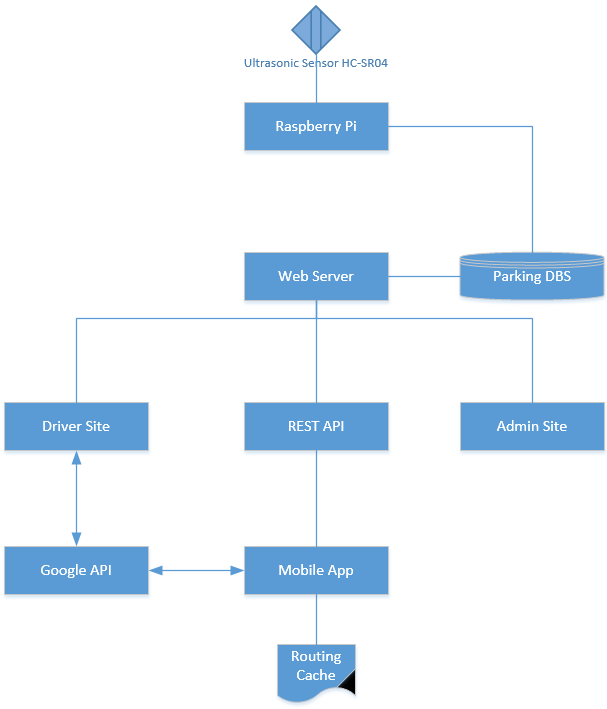
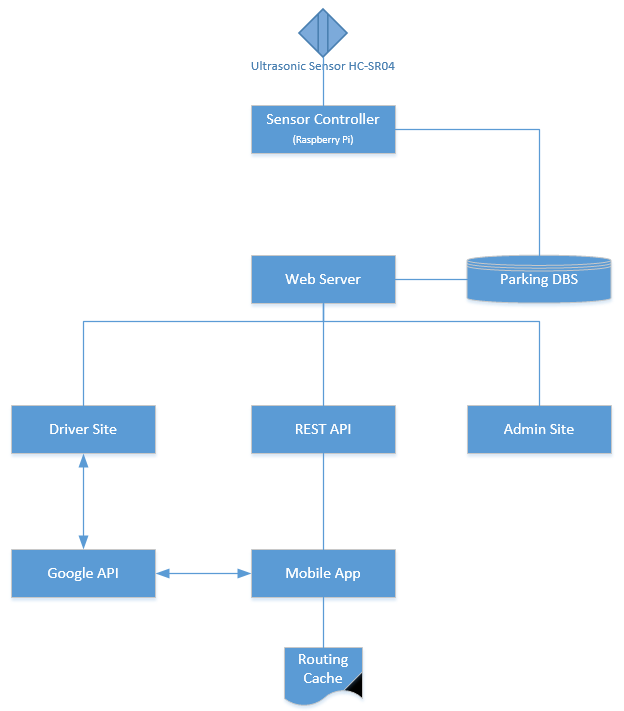
System Architecture overview

diff --git a/parking-report2.md b/parking-report2.md
@@ -162,17 +162,23 @@ The Web DriverPark classes are used by a driver to accomplish the following task
 
 ### <a name = "Architectural_Styles"></a>Architectural Styles  ###
 
+The ParkMe solution is built upon a client/server architecture and consists of three-tiers. Clients include the following: Web-based Administration and Driver sites; Android mobile app; Sensor Controllers.
+
 **Client/Server**
-1. Centralized database
-2. URL based REST API
+
+1. Cloud database
+2. Web Server: URL based REST API
+3. Web-based Administration and Driver sites; Android-based mobile Driver app
+
+The image below provides a high level overview of the system architecture:
+
+<img src="./diagrams/SystemHighLevelOverview.png"/>
+
 
 ### <a name = "Identifying_Subsystems"></a>Identifying Subsystems ###
 
 Everything will start on the sensor checking if a spot is available, then it will send the information to the database. The database comprises a subsystem that includes the components of parkings lots, spaces, and destination. The server then will communicate through the mobile app, which includes it's subsystem on services such as get lots, spaces, and destination.
 
-The image below provides a high level overview of the system components:
-
-<img src="./diagrams/SystemHighLevelOverview.png"/>
 
 The image below identifies the subsystems:
 
@@ -195,7 +201,7 @@ Outline of subsystems to hardware:
 
 A repository of the parking lots will be managed in an Azure Cosmos DB. The following data schema will be used to store JSON objects.
 
-** Parking Lot **
+**Parking Lot Schema**
 
 {
 "lotId" : "number",
@@ -206,7 +212,7 @@ A repository of the parking lots will be managed in an Azure Cosmos DB. The foll
 "lotDescription" : "string"
 }
 
-** Parking Space **
+**Parking Space Schema**
 
 {
 "spaceId" : "number",
@@ -215,7 +221,7 @@ A repository of the parking lots will be managed in an Azure Cosmos DB. The foll
 "spaceGeoCode" : "string"
 }
 
-** Destination **
+**Destination Schema**
 
 {
 "destinationId" : "number",
@@ -227,8 +233,8 @@ A repository of the parking lots will be managed in an Azure Cosmos DB. The foll
 
 The following network protocols are used:
 
-- ParkMe Database REST API: Http 
-- ParkMe Web App: Http
+- ParkMe Database REST API: HTTP 
+- ParkMe Web App: HTTP
 - Space Report: IoT
 
 ### <a name = "Global_Control_Flow"></a>Global Control Flow  ###
@@ -242,8 +248,9 @@ Our system will be based on Time-Dependency, the sensors will check the parking 
 **Design Patterns**
 
 Observable
-- Database Calls via Http
-- CandidateSpaceLislst to be notified when space availability state changes
+
+- Database calls via HTTP
+- CandidateSpaceList collection to be notified when space availability changes
 
 ### <a name = "Data_Structures"></a>Data Structures ###
 ..
